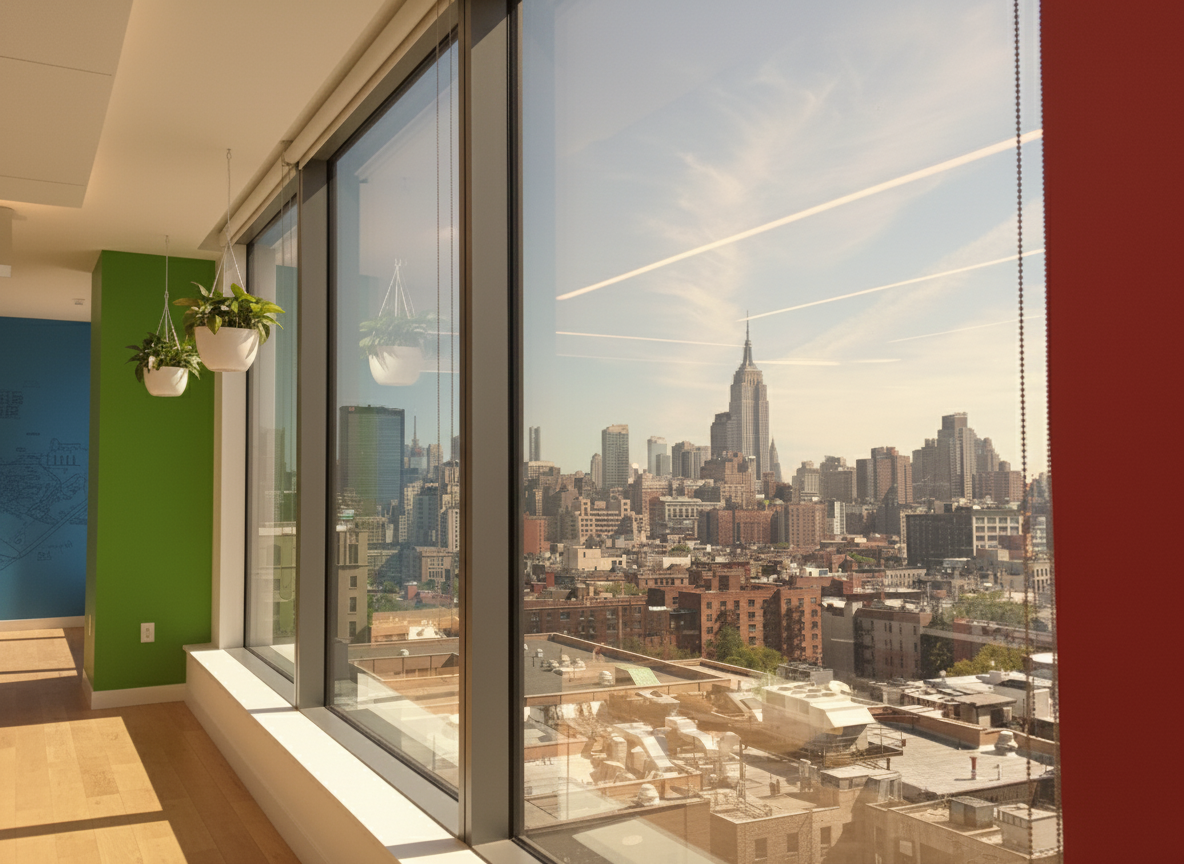
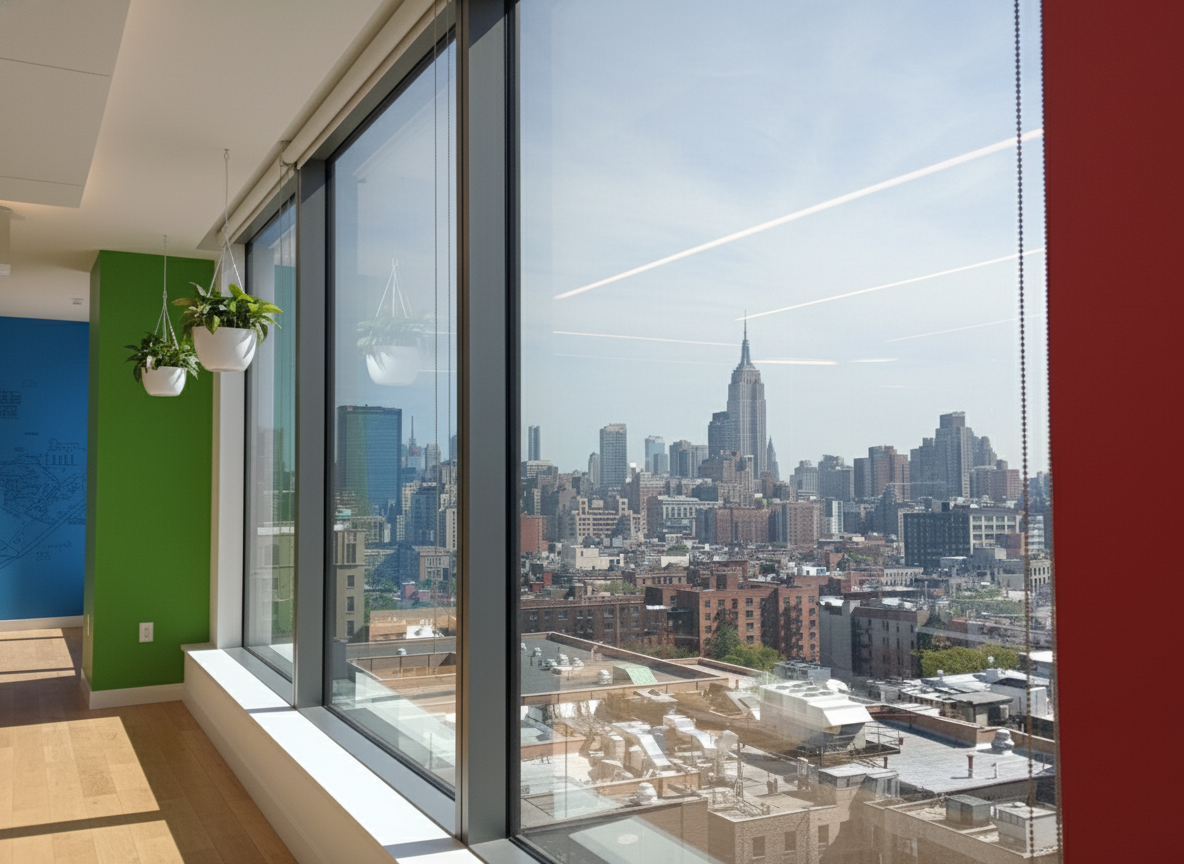
Update current virtual office image

diff --git a/index.html b/index.html
@@ -33,7 +33,7 @@
   </style>
 </head>
 <body>
-  <img src="./virtual-office-current.png?v=1776792528" alt="Current virtual office weather image">
-  <div class="stamp">Last updated: 2026-04-21 10:28 PDT</div>
+  <img src="./virtual-office-current.png?v=1776812784" alt="Current virtual office weather image">
+  <div class="stamp">Last updated: 2026-04-21 16:06 PDT</div>
 </body>
 </html>
